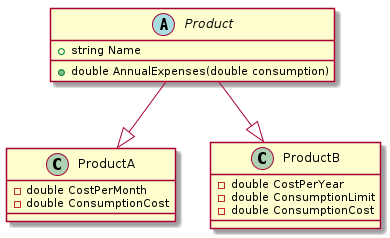
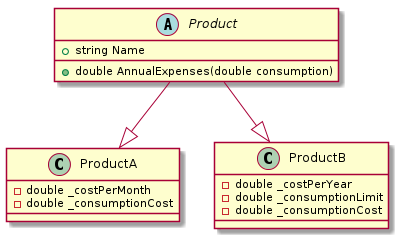
Baisc model implementation

diff --git a/Verivox/Model/ProductB.cs b/Verivox/Model/ProductB.cs
@@ -1,0 +1,38 @@
+namespace Model
+{
+    public sealed class ProductB : Product
+    {
+        private readonly double _costPerYear;
+        private readonly double _consumptionLimit;
+        private readonly double _consumptionCost;
+        /// <summary>
+        /// Product B constructor
+        /// </summary>
+        /// <param name="costPerYear">basic price for product per annum(EUR)</param>
+        /// <param name="consumptionLimit">amount of energy included in basic price (kWh)</param>
+        /// <param name="consumptionCost">price per each kWh above consumption limit (EUR/kWh)</param>
+        public ProductB(double costPerYear, double consumptionLimit, double consumptionCost)
+        {
+            _costPerYear = costPerYear;
+            _consumptionLimit = consumptionLimit;
+            _consumptionCost = consumptionCost;
+        }
+
+        public override double AnnualExpenses(double consumption)
+        {
+            // TODO: test
+            double extraConsumption = consumption - _consumptionLimit;
+            return _costPerYear + Heaviside(extraConsumption) * _consumptionCost;
+        }
+        /// <summary>
+        /// Heaviside function implementation
+        /// see https://en.wikipedia.org/wiki/Heaviside_step_function for details
+        /// </summary>
+        /// <param name="a">value to analyze</param>
+        /// <returns>0 if a less than 0, or vlaue of <see cref="a"/> otherways</returns>
+        private double Heaviside(double a)
+        {
+            return a < 0 ? 0 : a;
+        }
+    }
+}

diff --git a/Verivox/Model/ProductA.cs b/Verivox/Model/ProductA.cs
@@ -1,0 +1,24 @@
+namespace Model
+{
+    public sealed class ProductA: Product
+    {
+        private readonly double _costPerMonth;
+        private readonly double _consumptionCost;
+        /// <summary>
+        /// Product A constructor
+        /// </summary>
+        /// <param name="costPerMonth">regular payment for product per month (EUR)</param>
+        /// <param name="consumptionCost">price for energy consumed (EUR/kWh)</param>
+        public ProductA(double costPerMonth, double consumptionCost)
+        {
+            _costPerMonth = costPerMonth;
+            _consumptionCost = consumptionCost;
+        }
+
+        public override double AnnualExpenses(double consumption)
+        {
+            // TODO: test
+            return _costPerMonth * 12 + _consumptionCost * consumption;
+        }
+    }
+}

diff --git a/Verivox/Model/Product.cs b/Verivox/Model/Product.cs
@@ -1,0 +1,19 @@
+namespace Model
+{
+    /// <summary>
+    /// Basic class for product
+    /// </summary>
+    public abstract class Product
+    {
+        /// <summary>
+        /// Tariff name
+        /// </summary>
+        public string Name;
+        /// <summary>
+        /// Calculate annual cost/expenses per tariff for consumption provided
+        /// </summary>
+        /// <param name="consumption">total energy consumption for year in kWh</param>
+        /// <returns></returns>
+        public abstract double AnnualExpenses(double consumption);
+    }
+}

diff --git a/Verivox/Verivox/Program.cs b/Verivox/Verivox/Program.cs
@@ -1,0 +1,12 @@
+using System;
+
+namespace Verivox
+{
+    class Program
+    {
+        static void Main(string[] args)
+        {
+            Console.WriteLine("Hello World!");
+        }
+    }
+}
